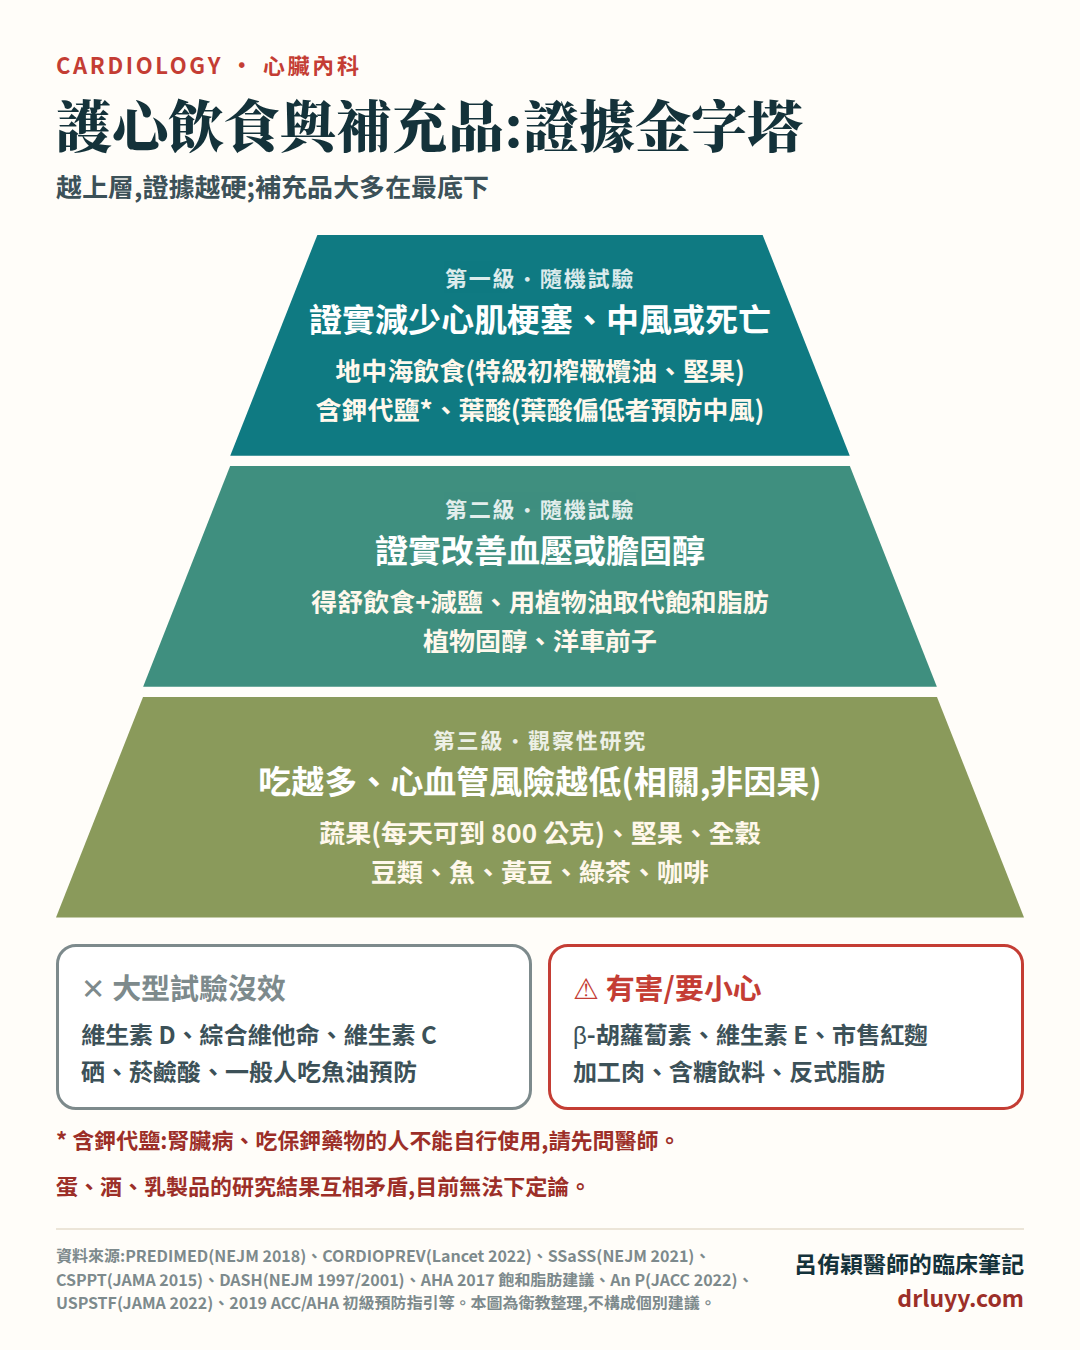
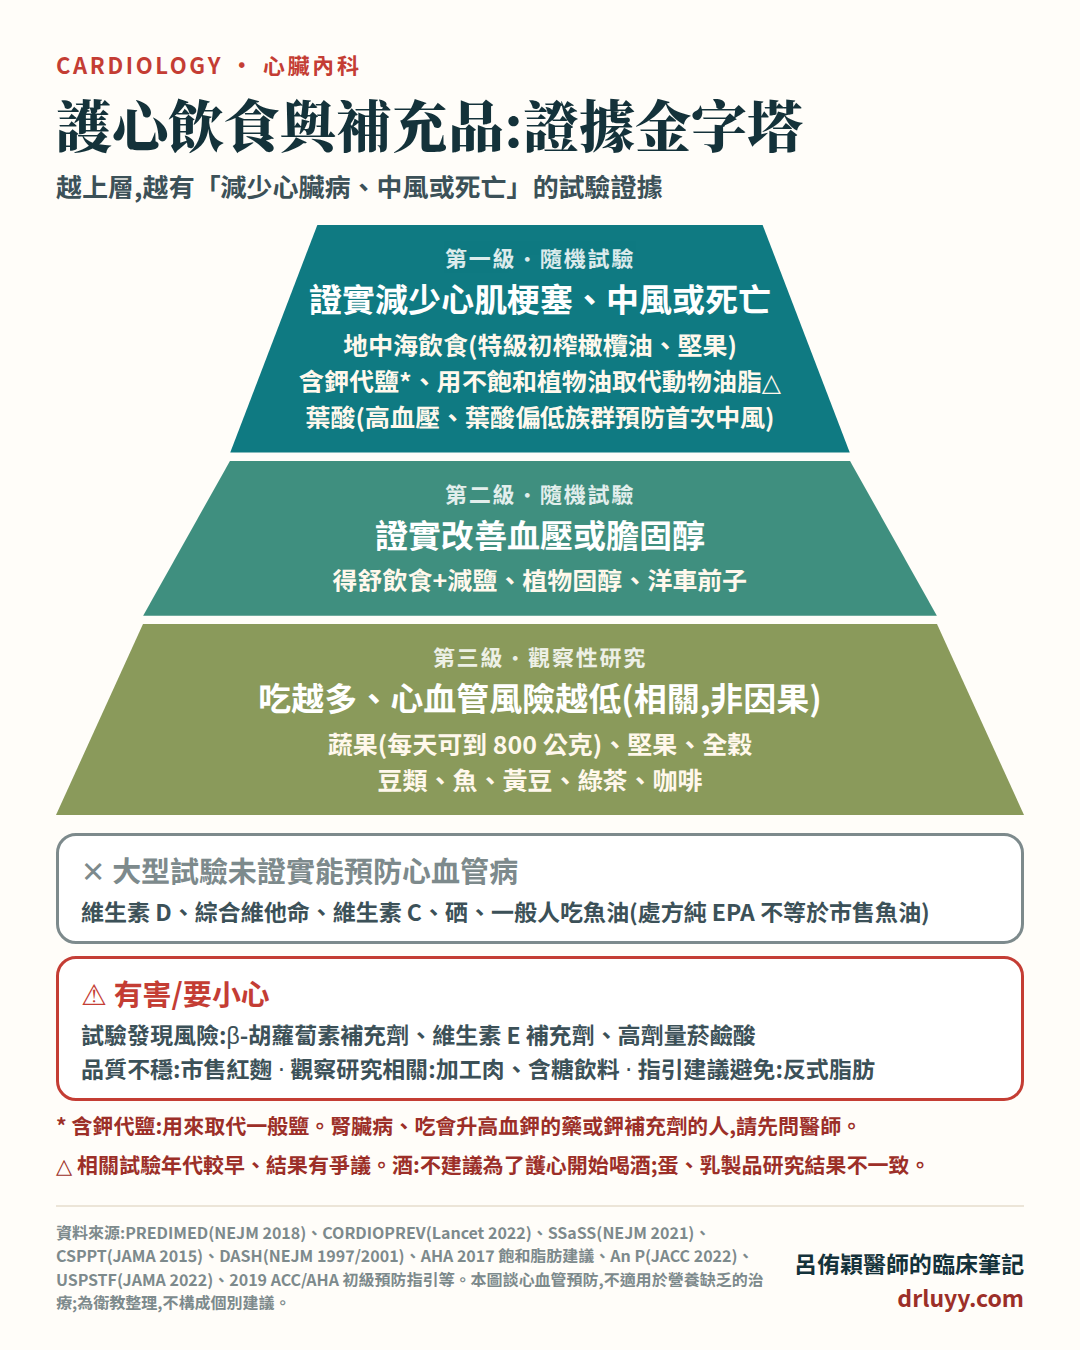
證據金字塔:依 Codex 事實查核修正(植物油升第一級、葉酸族群、沒效改未證實、有害框標證據類型、酒的措辭)

Changed region(s): [[0.0306, 0.1244, 0.9472, 0.9956]]

diff --git a/scripts/gen-figure.js b/scripts/gen-figure.js
@@ -106,16 +106,16 @@ padding:48px 56px 36px;color:#14323a}
 .tagline{color:#c43d34;font-size:22px;font-weight:700;letter-spacing:.12em}
 h1{font-family:'NSerif';font-size:56px;line-height:1.2;font-weight:900;margin-top:10px}
 .sub{font-size:26px;color:#3c5158;margin-top:10px;line-height:1.45}
-.pyr{display:flex;flex-direction:column;align-items:center;gap:10px;margin-top:30px}
-.tier{color:#fff;text-align:center;padding:26px 0 28px}
+.pyr{display:flex;flex-direction:column;align-items:center;gap:8px;margin-top:20px}
+.tier{color:#fff;text-align:center;padding:16px 0 18px}
 .rank{font-size:22px;letter-spacing:.08em;opacity:.85}
 .tlabel{font-size:33px;line-height:1.3;margin-top:4px}
-.titems{font-size:26px;line-height:1.5;margin:10px auto 0;max-width:86%;color:#fff8ec;white-space:pre-line}
-.bins{display:flex;gap:16px;margin-top:26px}
-.bin{flex:1;border:3px solid;border-radius:20px;padding:18px 22px;background:#fff}
+.titems{font-size:25px;line-height:1.45;margin:6px auto 0;max-width:90%;color:#fff8ec;white-space:pre-line}
+.bins{display:flex;gap:16px;margin-top:18px}
+.bin{flex:1;border:3px solid;border-radius:20px;padding:12px 22px;background:#fff}
 .bhead{font-size:29px}
-.bitems{font-size:24px;color:#3c5158;line-height:1.55;margin-top:8px;white-space:pre-line}
-.note{font-size:22px;color:#9c2f28;margin-top:14px;line-height:1.45}
+.bitems{font-size:23px;color:#3c5158;line-height:1.5;margin-top:4px;white-space:pre-line}
+.note{font-size:21px;color:#9c2f28;margin-top:10px;line-height:1.4}
 .foot{display:flex;align-items:flex-end;gap:16px;border-top:2px solid #ece5d8;padding-top:14px;margin-top:auto}
 .src{font-size:16px;color:#7d8a8c;line-height:1.45;flex:1}
 .brand{text-align:right;flex-shrink:0}
@@ -126,7 +126,7 @@ h1{font-family:'NSerif';font-size:56px;line-height:1.2;font-weight:900;margin-to
 <h1>${esc(f.title)}</h1>
 ${f.subtitle ? `<div class="sub">${esc(f.subtitle)}</div>` : ''}
 <div class="pyr">${tiers}</div>
-<div class="bins">${bins}</div>
+<div class="bins"${f.binsStack ? ' style="flex-direction:column;gap:12px"' : ''}>${bins}</div>
 ${f.notes ? f.notes.map(x => `<div class="note">${esc(x)}</div>`).join('') : ''}
 <div class="foot">
   <div class="src">${esc(f.sources)}</div>
